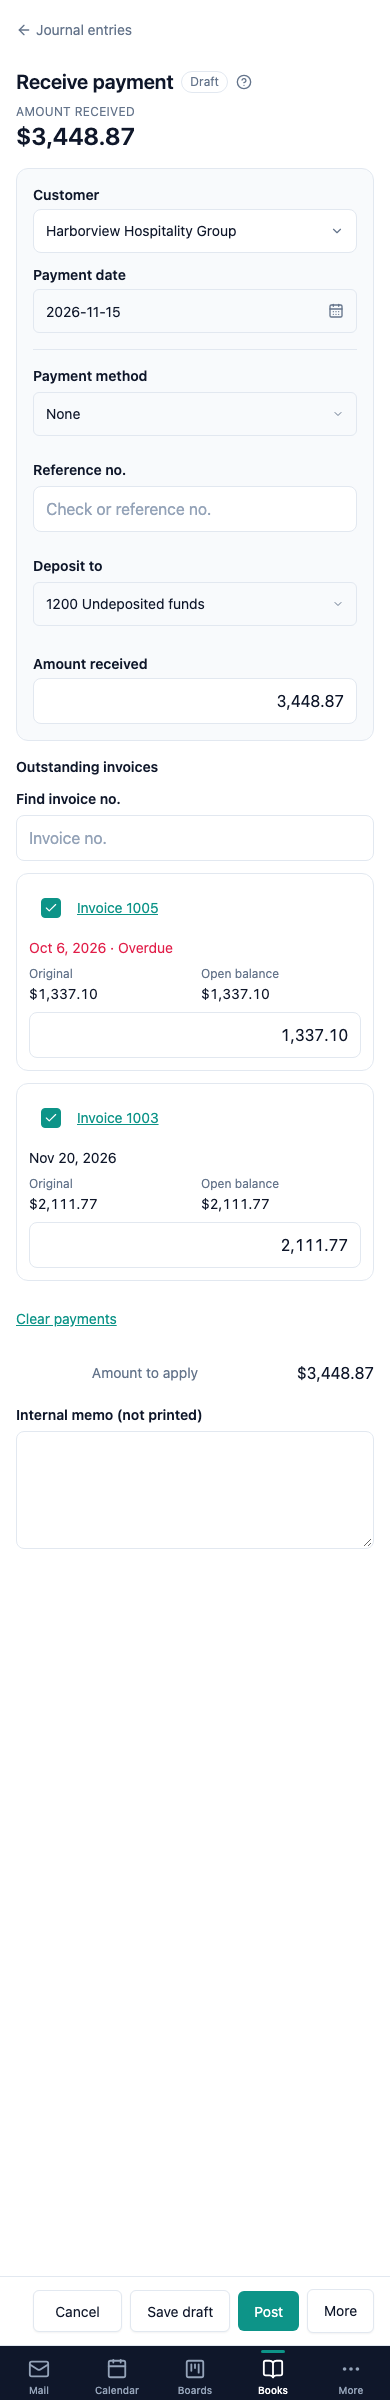
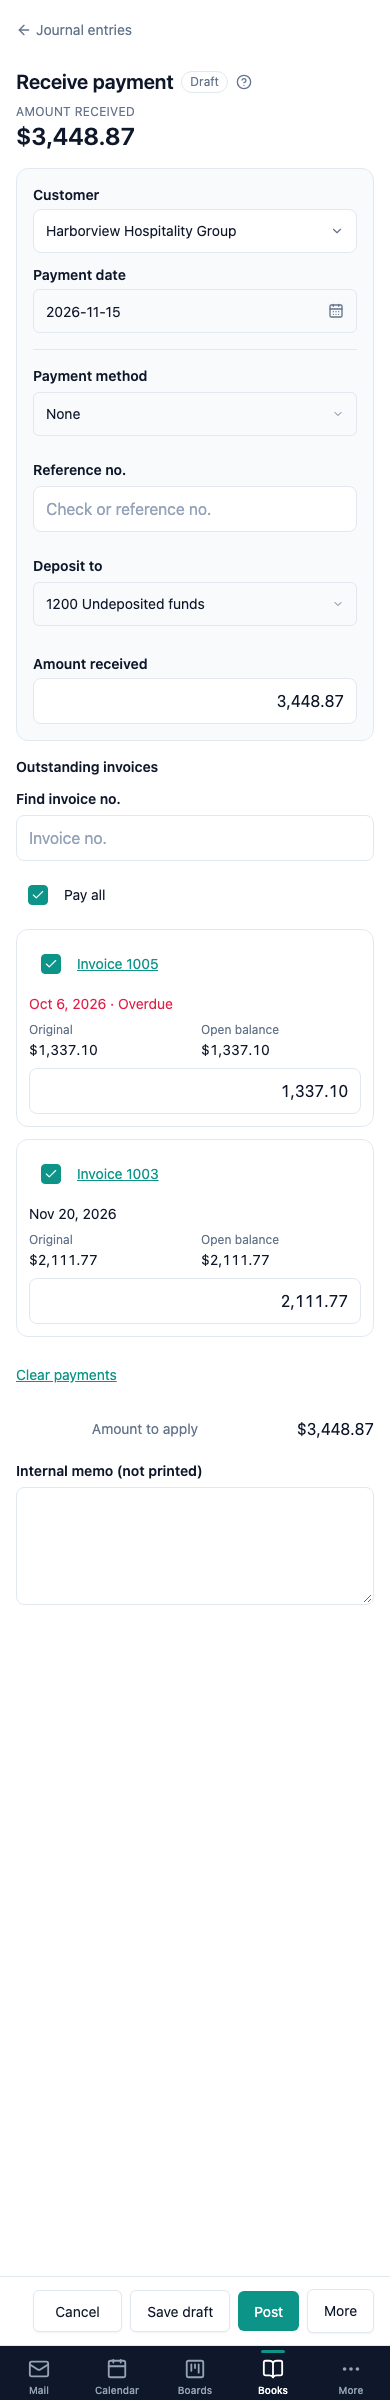
fix(books): keep a typed amount on a Find pick; Pay all on phone cards

diff --git a/tests/e2e/receive-payment-phone.spec.ts b/tests/e2e/receive-payment-phone.spec.ts
@@ -55,6 +55,19 @@ test.describe('receive-payment: phone and find', () => {
         await expect(paymentRow(page, first.id)).toHaveCount(0)
         await expect(paymentRow(page, second.id)).toHaveCount(0)
 
+        // The cards have their own Pay all control: it pays every card, and Amount received
+        // follows; pressed again, it clears every card and the amount it set.
+        const tickAll = page.getByTestId('payment-tick-all')
+        await expect(tickAll).toBeVisible()
+        await tickAll.click()
+        await expect(card1.getByTestId(`payment-row-amount-${first.id}`)).toHaveValue('300.00')
+        await expect(card2.getByTestId(`payment-row-amount-${second.id}`)).toHaveValue('200.00')
+        await expect(page.getByTestId('payment-amount')).toHaveValue('500.00')
+        await tickAll.click()
+        await expect(card1.getByTestId(`payment-row-amount-${first.id}`)).toHaveValue('')
+        await expect(card2.getByTestId(`payment-row-amount-${second.id}`)).toHaveValue('')
+        await expect(page.getByTestId('payment-amount')).toHaveValue('')
+
         // Ticking card 1 pays its open balance, and Amount received follows.
         await card1.getByTestId(`payment-row-tick-${first.id}`).click()
         await expect(card1.getByTestId(`payment-row-amount-${first.id}`)).toHaveValue('300.00')
@@ -137,5 +150,21 @@ test.describe('receive-payment: phone and find', () => {
         await expect(filterEmpty).toHaveCount(0)
         await expect(paymentRow(page, invoice.id)).toBeVisible()
         await expect(rowAmount(page, invoice.id)).toHaveValue('125.00')
+
+        // On a fresh form, an Amount received typed before the lookup is kept and applied
+        // to the found invoice, up to its open balance.
+        await page.getByTestId('payment-cancel').click()
+        await expect(page.getByTestId('discard-dialog')).toBeVisible()
+        await page.getByTestId('discard-confirm').click()
+        await expect(page).not.toHaveURL(/\/books\/payments\//)
+        await openNewPayment(page)
+        await expect(page.getByTestId('payment-choose-customer')).toBeVisible()
+        await page.getByTestId('payment-amount').fill('100.00')
+        await find.fill(invoice.number)
+        await find.press('Enter')
+        await expect(page.getByTestId('payment-customer')).toContainText(name)
+        await expect(rowAmount(page, invoice.id)).toHaveValue('100.00')
+        await expect(page.getByTestId('payment-amount')).toHaveValue('100.00')
+        await expect(page.getByTestId('payment-over')).toHaveCount(0)
     })
 })

diff --git a/tinycld/books/components/payments/OutstandingCards.tsx b/tinycld/books/components/payments/OutstandingCards.tsx
@@ -83,14 +83,40 @@ function InvoiceCard({
     )
 }
 
+// The cards' touch path to the wide grid's header tick box: the same state and handler,
+// so it pays every listed row, or clears them all when every row is paid.
+function TickAllBar({
+    tick,
+    isDisabled,
+    onTickAll,
+}: {
+    tick: SelectBoxState
+    isDisabled: boolean
+    onTickAll: () => void
+}) {
+    return (
+        <View className="flex-row items-center gap-1">
+            <SelectBox
+                state={tick}
+                label="Pay every listed invoice"
+                testID="payment-tick-all"
+                onPress={onTickAll}
+                isDisabled={isDisabled}
+                tabIndex={-1}
+            />
+            <Text className="text-sm text-foreground">Pay all</Text>
+        </View>
+    )
+}
+
 /**
- * The outstanding list below 640 px (spec §3.3): one card per invoice, with the tick box
- * and "Invoice 1004" on the first line, the due date, Original and Open balance as a
- * label-value pair, and the Payment input at full width. The tick box is a press target
- * only; the card's one Tab stop is its Payment input.
+ * The outstanding list below 640 px (spec §3.3): a "Pay all" tick box over the cards, then
+ * one card per invoice, with the tick box and "Invoice 1004" on the first line, the due
+ * date, Original and Open balance as a label-value pair, and the Payment input at full
+ * width. The tick boxes are press targets only; the card's one Tab stop is its Payment input.
  */
 export function OutstandingCards(props: OutstandingGridProps) {
-    const { rows, rowErrors } = props
+    const { rows, rowErrors, tickAll, isDisabled, onTickAll } = props
     const lastId = rows[rows.length - 1]?.id
     const drawn = rows.map(row => (
         <InvoiceCard
@@ -101,5 +127,10 @@ export function OutstandingCards(props: OutstandingGridProps) {
             isLast={row.id === lastId}
         />
     ))
-    return <View className="gap-3">{drawn}</View>
+    return (
+        <View className="gap-3">
+            <TickAllBar tick={tickAll} isDisabled={isDisabled} onTickAll={onTickAll} />
+            {drawn}
+        </View>
+    )
 }

diff --git a/tinycld/books/hooks/usePaymentForm.ts b/tinycld/books/hooks/usePaymentForm.ts
@@ -205,15 +205,23 @@ export function usePaymentForm({
     }
 
     // Find invoice no. found the invoice while no customer was chosen: its customer becomes
-    // the form's, and the invoice is paid in full. Amount received follows that payment.
+    // the form's. A typed Amount received above zero keeps its value and is re-applied to
+    // the invoice, up to its open balance (the rest is Amount to credit). Else the invoice
+    // is paid in full and Amount received follows that payment.
     const onFindPicked = (invoice: OutstandingRow, customer: string) => {
         if (getValues('customer') !== '') return
         const before = getValues('payments')
-        const payments = tickRow(clearPayments(), invoice)
+        const cents = moneyInputCents(getValues('amount'), currency)
+        const isTyped = getValues('amountTyped') && cents !== null && cents > 0
         write('customer', customer)
-        write('payments', payments)
-        write('amountTyped', false)
-        write('amount', followedAmount(payments, currency))
+        if (isTyped) {
+            write('payments', spreadAmount([invoice], cents))
+        } else {
+            const payments = tickRow(clearPayments(), invoice)
+            write('payments', payments)
+            write('amountTyped', false)
+            write('amount', followedAmount(payments, currency))
+        }
         revalidate(before, true)
     }
 

diff --git a/docs/plans/receive-payment-ledger.md b/docs/plans/receive-payment-ledger.md
@@ -64,12 +64,13 @@
 - cp 3 · read-390-*: the read detail band puts Customer and Payment date side by side at 390, the customer link ~12 px below the date value; the reference stacks Customer, Payment date, Payment in one column (the read band is cp 2's).
 - cp 3 · read-credit-390-*: with no method and no reference, the Payment line starts in lower case ("deposited to 1200 Undeposited funds") — shared `paymentText`.
 - cp 3 · populated-390-*: the card's tick box sits ~10 px right of the left edge of the due date, labels and input (the reference has the same inset).
-- cp 3 · reviewer A NOTE: a Find pick after a typed Amount received sets `amountTyped` false and Amount received to the invoice's balance (the typed amount is lost); the brief's Do step 3 says "Amount received follows", while spec §3.2/§3.4 keep a typed amount on a customer change. Option: when typed, keep the amount and re-apply it.
+- ~~cp 3 · reviewer A NOTE: a Find pick after a typed Amount received sets `amountTyped` false and Amount received to the invoice's balance (the typed amount is lost); the brief's Do step 3 says "Amount received follows", while spec §3.2/§3.4 keep a typed amount on a customer change. Option: when typed, keep the amount and re-apply it.~~ (resolved: driver correction 1, see Final review)
 - cp 3 · reviewer A NOTE: a typed amount's spread, ⌥A and the header tick box write payments into rows the filter hides. Option: act only on the shown rows, or show "n invoices hidden by the filter".
 - cp 3 · reviewer A NOTE: `useFindInvoice`'s `failed` path and the dropped-unreadable-customer path have no hook-level test (`findOutcome` covers `inactive`).
 - cp 3 · reviewer A NOTE: on the first frame the width is 0, so the wide grid draws, then the cards (a one-frame flash on a phone), per the plan's "above 0 and below 640" rule.
 - cp 3 · reviewer A NOTE: an applied card whose invoice is not yet filed draws "Invoice " and Original "$0.00" for a moment (as the grid row does).
-- cp 3 · runner: on a phone the outstanding list has no header tick box, so Pay all has no touch control (⌥A only); the spec names the header tick box for the wide grid only.
+- ~~cp 3 · runner: on a phone the outstanding list has no header tick box, so Pay all has no touch control (⌥A only); the spec names the header tick box for the wide grid only.~~ (resolved: driver correction 2, see Final review)
+- cp 3 corrections · populated/over/credit-390-*: the "Pay all" tick box above the cards sits ~12 px left of the card tick boxes and ~22 px right of the section edge (a third indent).
 - cp 3 · find-miss-1280-light (re-capture): the focused Find invoice no. field draws a blue 2 px ring while the focused Customer trigger draws a teal one — two focus colours on one form (core `TextInput` focus style vs the picker trigger).
 - cp 3 · fix review NOTE: new text `Invoice no. can be at most 40 characters` (`findTooLong`, `lib/payment-texts.ts`) for the find field's 40-character rule (the `books_invoices.number` limit); no spec or plan text exists; it follows the Reference no. wording.
 - cp 3 · new text `No open invoice starts with <text>` (`payment-filter-empty`, fix item 2) for a filter that keeps no row; no spec or plan text exists; it follows the spec's `No open invoice 1099`.
@@ -149,3 +150,11 @@
 
 ## Final review
 - eval:
+- cp 3 corrections (driver, 2026-11-15, staging cp3-spec-fixes.md; findings file staging cp/cp3-efix.md, causes: spec-logic 1, platform 1):
+  - 1. A Find invoice no. pick lost a typed Amount received. Fix: with `amountTyped` true and a valid typed amount above zero, `onFindPicked` (hooks/usePaymentForm.ts) sets the customer, keeps `amount` and `amountTyped`, and pays the found invoice `spreadAmount([invoice], cents)` (up to its open balance; the rest is credit, §3.4 re-apply). Runner decision: the re-apply covers the found invoice only, not the customer's other rows (the pick names that invoice; no list load). Otherwise unchanged (tick at open balance, Amount received follows).
+  - 2. No touch path for Pay all below 640 px. Fix: `OutstandingCards` draws a "Pay all" `SelectBox` (`payment-tick-all`, `tickAll` state, `onTickAll`) above the cards, the wide header's behavior. Declared: only the box is the press target, not the "Pay all" text.
+  - test writer: steps added to both tests of tests/e2e/receive-payment-phone.spec.ts (typed 100.00 kept and applied on a Find pick of a 125.00 invoice; Pay all at 390 pays both cards, a second press clears); red for the right reason: yes (row 125.00; no `payment-tick-all`)
+  - gate 1: tests unedited: yes · pass (packages:generate, check 5677 tests; e2e `receive-payment:` 9 passed). Helper file not edited, so no regression specs.
+  - gate 2: re-captured populated/over/credit-390 (6 shots, subset manifest staging cp/cp3-efix-capture.json); fresh critic (evidence cp3/critique-efix.md): invalid none · blocking none · 9 notes: the "Pay all" tick-box indent (new, Design notes); the rest repeat recorded notes (typed vs followed group separator; faint dark tick-box border, as the reference)
+  - fix review: round 1: clean
+  - lessons: 2 lines added to docs/helix-lessons.md

diff --git a/docs/plans/receive-payment-evidence/cp3/critique-efix.md b/docs/plans/receive-payment-evidence/cp3/critique-efix.md
@@ -1,0 +1,54 @@
+# Gate 2 critique: receive-payment checkpoint 3, re-capture after the "Pay all" fix
+
+Scope: the six re-captured 390 shots (`populated`, `over`, `credit`, light and dark). Judged against the checkpoint 3 Delivers line (phone cards, Find invoice no.) and the matching reference shots.
+
+## State check
+
+| Shot | State shown | Result |
+|---|---|---|
+| populated-390-light | Customer chosen, two invoice cards ticked, Amount received follows ($3,448.87) | VALID |
+| populated-390-dark | Same | VALID |
+| over-390-light | Amount received $100.00, one card paid $2,111.77, refusal line under the totals | VALID |
+| over-390-dark | Same | VALID |
+| credit-390-light | Amount received $5,000.00, Amount to credit $1,551.13 with the "Kept as a credit" note | VALID |
+| credit-390-dark | Same | VALID |
+
+## Findings
+
+### populated-390-light
+- populated-390-light: "Pay all" row, above the first card — the tick box is not on a line with the card tick boxes (about 12 px to the left of them) and not on the left edge of the section (about 22 px to the right of it). It reads as a third, unrelated indent. — NOTE
+- populated-390-light: Amount received input against the card Payment inputs — the same value shows with a thousands separator here ("3,448.87", it follows the rows) but a typed value shows without one ("5000.00" in the credit shot), while the card inputs always show one ("1,337.10"). — NOTE (the band is checkpoint 2; the reference also shows "1243.56")
+
+### populated-390-dark
+- populated-390-dark: "Pay all" row — the same tick box misalignment as light. — NOTE
+- Legibility: nothing found.
+
+### over-390-light
+- over-390-light: "Pay all" row — the same tick box misalignment. The mixed (dash) state is clear. — NOTE
+- Nothing else found. The refusal line wraps to two lines with "received" alone, as in the reference.
+
+### over-390-dark
+- over-390-dark: card "Invoice 1005", tick box — the border of the unticked box is faint against the card surface. — NOTE (the reference shows the same core checkbox)
+- over-390-dark: "Pay all" row — the same tick box misalignment. — NOTE
+
+### credit-390-light
+- credit-390-light: "Pay all" row — the same tick box misalignment. — NOTE
+- credit-390-light: Amount received input — "5000.00" with no thousands separator beside "1,337.10" and "2,111.77" in the cards. — NOTE (see populated-390-light)
+
+### credit-390-dark
+- credit-390-dark: the same two NOTEs as credit-390-light. Legibility: nothing found.
+
+## Checked and not findings
+
+- Card first line shows "Invoice 1005" without the invoice date; the reference shows "Invoice 1006 · Sep 2, 2026". The spec decides: "tick box and "Invoice 1004" on the first line". Not a finding.
+- The "Pay all" control is not in the reference. It supplies the phone path for spec §3.4 "Pay all" (⌥A, also the header tick box); the card structure, the totals and the position of Find invoice no. are kept. Not a finding.
+- Card content matches spec §3.3: tick box and invoice link, due date (danger tone with "Overdue"), Original and Open balance as a label-value pair, full-width Payment input.
+- Amount received is last in the band (spec §3.2).
+- The built shots show less data than the reference (two invoices, no long invoice number, no row-level "More than the open balance" error). Wrapping of a long invoice number and the row error cannot be judged from these shots.
+- The "Draft" badge on a new payment is header chrome of checkpoint 2, not this checkpoint.
+
+## For gate 3
+
+- None visible.
+
+CRITIQUE: 0 INVALID, 0 BLOCKING, 9 NOTE

diff --git a/docs/helix-lessons.md b/docs/helix-lessons.md
@@ -42,3 +42,5 @@
 - An e2e test that changes the shared `books_settings` row goes in the `purchase-lines-setting` Playwright project (one worker); `-g` also runs that dependency project, and its red tests skip their dependents. — expense-form, retro, p3-expense
 - In e2e helpers, wait on the visible screen (`.filter({ visible: true })`), never on the first match of an `or`: Books keeps a list mounted and hidden under an open record. Scope a row lookup to its account section, and read server data through the page's `fetch`, not Node `page.request`. — report-drill-down, retro, p5-drill-down
 - A report drill is set per column; a blank cell (a zero Debit or Credit) has no drill and no link. — report-drill-down, retro, p5-drill-down
+- A pick that fills a form (a lookup, a find) keeps a value the user typed and re-applies it by the spec's rule; never reset a "typed" flag to make the pick simpler. — receive-payment, driver, cp 3
+- Every action a wide layout offers by a control (a header tick box, Pay all) has a touch control on the phone layout too; a key alone is not a path on native. — receive-payment, driver, cp 3
